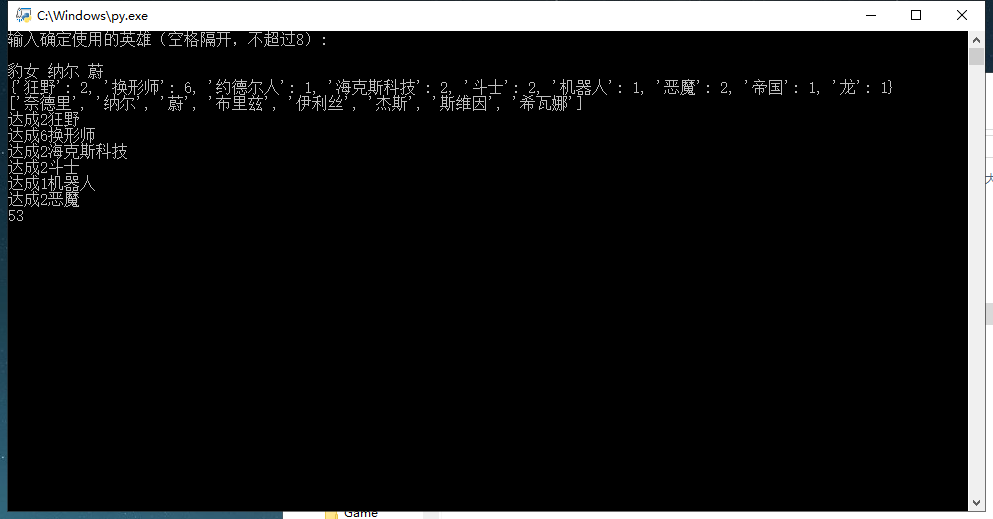
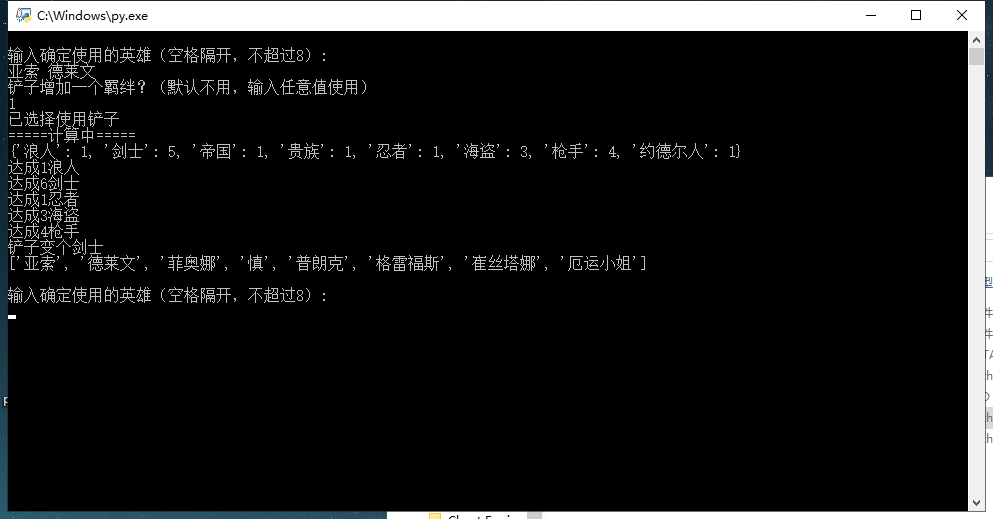
添加铲子功能，适配9.19版本

diff --git a/YD-GA_cmd.py b/YD-GA_cmd.py
@@ -1,4 +1,3 @@
-
 # coding: utf-8
 
 import random
@@ -33,6 +32,9 @@ jiBan = {
          '换形师':[3,6],
          '法师':[3,6]
          }
+
+shovel_add = ['剑士','极地','恶魔','约德尔人','刺客','骑士','法师']
+
 
 def getHeroid(names, heros_info_short):
     '''
@@ -70,34 +72,63 @@ def teamtype(hero_ids, heros_info):
                 team[job] = 1
     return team, gold
 
-def calculateTeamScore(team, show= 0):
+def calc(team, show= 0):
     '''
     计算队伍得分
-    羁绊得分规则：按达成羁绊人数得分，不考虑羁绊效果不平衡（这是运营商的事=-=）
+    羁绊得分规则：按达成羁绊人数得分，不考虑羁绊效果不平衡（这是运营商的事!）
     '''
     score = 0
     for k in team:
-        flag = 0#记录达成几人口羁绊
-        if k != '忍者':
-            pnum = team[k]
-            for n in jiBan[k]:
-                if pnum >= n:
-                    flag = n
-                else:
-                    break
-            #组成人口越多，得分越高
-            score += flag**2
-            if pnum >= jiBan[k][0] and show:
-                print('达成{}{}'.format(flag,k))
-        elif team[k] == 1 or team[k] == 4:
-            score += team[k]
-            if show:
-                print('达成{}{}'.format(team[k],k))
-        else:
-            continue
+            flag = 0#记录达成几人口羁绊
+            if k != '忍者':
+                pnum = team[k]
+                for n in jiBan[k]:
+                    if pnum >= n:
+                        flag = n
+                    else:
+                        break
+                #组成人口越多，得分越高
+                score += flag**2
+                if pnum >= jiBan[k][0] and show:
+                    print('达成{}{}'.format(flag,k))
+            elif team[k] == 1 or team[k] == 4:
+                score += team[k]
+                if show:
+                    print('达成{}{}'.format(team[k],k))
+            else:
+                continue
     return score
 
-def GA(team_pnum, selected_ids, heros_info, heros_info_short,gens = 100, sample = 50, alpha = 0.5):
+def calculateTeamScore(team, show= 0, shovel= False):
+    '''
+    计算队伍得分(铲子)
+    羁绊得分规则：按达成羁绊人数得分，不考虑羁绊效果不平衡（这是运营商的事!）
+    '''
+    max_score = 0
+    if shovel:
+    #计算铲子
+        change = 'null'
+        team_out = {}
+        for j in shovel_add:
+            #如果队伍里没有相关职业,跳过（铲子没有单独羁绊）
+            if j not in team.keys():
+                continue
+            team_copy = copy.deepcopy(team)
+            team_copy[j] +=1
+            
+            score = calc(team= team_copy, show= 0)
+            change = change if score <= max_score else j
+            team_out = team_out if score <= max_score else copy.deepcopy(team_copy)
+            
+            max_score = max_score if score <= max_score else score
+        
+        calc(team= team_out, show= show)
+        return max_score, change
+    else:
+        max_score = calc(team= team, show= show)
+        return max_score, None
+
+def GA(team_pnum, selected_ids, heros_info, heros_info_short,gens = 100, sample = 50, alpha = 0.5, shovel= False):
     '''
     team_pnum:你想组成多少人队伍
     selected_ids:列表,已经选定哪些英雄
@@ -127,7 +158,7 @@ def GA(team_pnum, selected_ids, heros_info, heros_info_short,gens = 100, sample 
         random.shuffle(hero_thisGenCouldChose)
         teamChoesd =  selected_ids + hero_thisGenCouldChose[:n]
         team, gold = teamtype(teamChoesd, hero_info_cp)
-        score = calculateTeamScore(team)
+        score,change = calculateTeamScore(team,shovel= shovel)
 #         print('<================================>')
         score = score * 10 - gold * alpha if score > 0 else 0
         scores['chosed_ids'].append(teamChoesd)
@@ -156,7 +187,7 @@ def GA(team_pnum, selected_ids, heros_info, heros_info_short,gens = 100, sample 
             scores_thisgen['chosed_ids'].append(teamChoesd)
             #计算得分
             team, gold = teamtype(teamChoesd, hero_info_cp)
-            score = calculateTeamScore(team)
+            score,change = calculateTeamScore(team, shovel= shovel)
             score = score * 10 - gold * alpha if score > 0 else 0
             scores['score'][score_min_idx] = score
             scores_thisgen['score'].append(score)
@@ -196,7 +227,7 @@ def GA(team_pnum, selected_ids, heros_info, heros_info_short,gens = 100, sample 
             baby = selected_ids + dadmon[:n]
             #求得分
             team, gold = teamtype(baby, hero_info_cp)
-            score = calculateTeamScore(team)
+            score,change = calculateTeamScore(team, shovel= shovel)
             score = score * 10 - gold * alpha if score > 0 else 0
             scores_thisgen['chosed_ids'].append(baby)
             scores_thisgen['score'].append(score)
@@ -211,8 +242,7 @@ def GA(team_pnum, selected_ids, heros_info, heros_info_short,gens = 100, sample 
     
     return besTeam, maxscores
 
-
-def main(heros_list= [], team_pnum= 8, gens = 100, sample = 50):
+def main(heros_list= [], team_pnum= 8, shovel = False, gens = 100, sample = 50):
     '''
     hero_list: 你确定选的英雄
     team_pnum: 人口数
@@ -235,26 +265,34 @@ def main(heros_list= [], team_pnum= 8, gens = 100, sample = 50):
                             heros_info_short= heros_info_short, 
                             gens = gens, 
                             sample = 50, 
-                            alpha = 0.1)
+                            alpha = 0.1,
+                            shovel = shovel)
 
     team, gold = teamtype(besTeam, heros_info= heros_info)
     print(team)
+    teamScore, change = calculateTeamScore(team= team, show = 1, shovel= shovel)
+#     print(teamScore)
+    print('铲子变个{}'.format(change))
     heros = getHeroFromid(besTeam, heros_info= heros_info)
     print(heros)
-    teamScore = calculateTeamScore(team= team, show = 1)
-    print(teamScore)
     
-    plt.plot(list(range(gens)), maxscores, 'k.')
-    plt.rcParams['font.sans-serif']=['SimHei']
-    plt.rcParams['axes.unicode_minus'] = False
-    plt.xlabel('Gen', fontsize = 15)
-    plt.ylabel('Score', fontsize = 15)
-    plt.title('人工智障助手-云顶之弈', fontsize = 20, pad= 10)
-    plt.show()
-
+#    plt.plot(list(range(gens)), maxscores, 'k.')
+#    plt.rcParams['font.sans-serif']=['SimHei']
+#    plt.rcParams['axes.unicode_minus'] = False
+#    plt.xlabel('Gen', fontsize = 15)
+#    plt.ylabel('Score', fontsize = 15)
+#    plt.title('人工智障助手-云顶之弈', fontsize = 20, pad= 10)
+#    plt.show()
 
 if __name__ == '__main__':
 	while(1):
-		print('输入确定使用的英雄（空格隔开，不超过8）:')
+		print('\n输入确定使用的英雄（空格隔开，不超过8）:')
 		heros_list = input().split(' ')
-		main(heros_list= heros_list, team_pnum= 8, gens = 1000, sample = 100)
+		print('铲子增加一个羁绊？（默认不用，输入任意值使用）')
+		shovel = bool(input())
+		if shovel:
+			print('已选择使用铲子')
+		else:
+			print('选择不使用铲子')
+		print('=====计算中=====')
+		main(heros_list= heros_list, team_pnum= 8, shovel = shovel, gens = 500, sample = 100)

diff --git a/YD-GA_ide.py b/YD-GA_ide.py
@@ -1,4 +1,3 @@
-
 # coding: utf-8
 
 import random
@@ -33,6 +32,9 @@ jiBan = {
          '换形师':[3,6],
          '法师':[3,6]
          }
+
+shovel_add = ['剑士','极地','恶魔','约德尔人','刺客','骑士','法师']
+
 
 def getHeroid(names, heros_info_short):
     '''
@@ -70,34 +72,63 @@ def teamtype(hero_ids, heros_info):
                 team[job] = 1
     return team, gold
 
-def calculateTeamScore(team, show= 0):
+def calc(team, show= 0):
     '''
     计算队伍得分
-    羁绊得分规则：按达成羁绊人数得分，不考虑羁绊效果不平衡（这是运营商的事=-=）
+    羁绊得分规则：按达成羁绊人数得分，不考虑羁绊效果不平衡（这是运营商的事!）
     '''
     score = 0
     for k in team:
-        flag = 0#记录达成几人口羁绊
-        if k != '忍者':
-            pnum = team[k]
-            for n in jiBan[k]:
-                if pnum >= n:
-                    flag = n
-                else:
-                    break
-            #组成人口越多，得分越高
-            score += flag**2
-            if pnum >= jiBan[k][0] and show:
-                print('达成{}{}'.format(flag,k))
-        elif team[k] == 1 or team[k] == 4:
-            score += team[k]
-            if show:
-                print('达成{}{}'.format(team[k],k))
-        else:
-            continue
+            flag = 0#记录达成几人口羁绊
+            if k != '忍者':
+                pnum = team[k]
+                for n in jiBan[k]:
+                    if pnum >= n:
+                        flag = n
+                    else:
+                        break
+                #组成人口越多，得分越高
+                score += flag**2
+                if pnum >= jiBan[k][0] and show:
+                    print('达成{}{}'.format(flag,k))
+            elif team[k] == 1 or team[k] == 4:
+                score += team[k]
+                if show:
+                    print('达成{}{}'.format(team[k],k))
+            else:
+                continue
     return score
 
-def GA(team_pnum, selected_ids, heros_info, heros_info_short,gens = 100, sample = 50, alpha = 0.5):
+def calculateTeamScore(team, show= 0, shovel= False):
+    '''
+    计算队伍得分(铲子)
+    羁绊得分规则：按达成羁绊人数得分，不考虑羁绊效果不平衡（这是运营商的事!）
+    '''
+    max_score = 0
+    if shovel:
+    #计算铲子
+        change = 'null'
+        team_out = {}
+        for j in shovel_add:
+            #如果队伍里没有相关职业,跳过（铲子没有单独羁绊）
+            if j not in team.keys():
+                continue
+            team_copy = copy.deepcopy(team)
+            team_copy[j] +=1
+            
+            score = calc(team= team_copy, show= 0)
+            change = change if score <= max_score else j
+            team_out = team_out if score <= max_score else copy.deepcopy(team_copy)
+            
+            max_score = max_score if score <= max_score else score
+        
+        calc(team= team_out, show= show)
+        return max_score, change
+    else:
+        max_score = calc(team= team, show= show)
+        return max_score, None
+
+def GA(team_pnum, selected_ids, heros_info, heros_info_short,gens = 100, sample = 50, alpha = 0.5, shovel= False):
     '''
     team_pnum:你想组成多少人队伍
     selected_ids:列表,已经选定哪些英雄
@@ -127,7 +158,7 @@ def GA(team_pnum, selected_ids, heros_info, heros_info_short,gens = 100, sample 
         random.shuffle(hero_thisGenCouldChose)
         teamChoesd =  selected_ids + hero_thisGenCouldChose[:n]
         team, gold = teamtype(teamChoesd, hero_info_cp)
-        score = calculateTeamScore(team)
+        score,change = calculateTeamScore(team,shovel= shovel)
 #         print('<================================>')
         score = score * 10 - gold * alpha if score > 0 else 0
         scores['chosed_ids'].append(teamChoesd)
@@ -156,7 +187,7 @@ def GA(team_pnum, selected_ids, heros_info, heros_info_short,gens = 100, sample 
             scores_thisgen['chosed_ids'].append(teamChoesd)
             #计算得分
             team, gold = teamtype(teamChoesd, hero_info_cp)
-            score = calculateTeamScore(team)
+            score,change = calculateTeamScore(team, shovel= shovel)
             score = score * 10 - gold * alpha if score > 0 else 0
             scores['score'][score_min_idx] = score
             scores_thisgen['score'].append(score)
@@ -196,7 +227,7 @@ def GA(team_pnum, selected_ids, heros_info, heros_info_short,gens = 100, sample 
             baby = selected_ids + dadmon[:n]
             #求得分
             team, gold = teamtype(baby, hero_info_cp)
-            score = calculateTeamScore(team)
+            score,change = calculateTeamScore(team, shovel= shovel)
             score = score * 10 - gold * alpha if score > 0 else 0
             scores_thisgen['chosed_ids'].append(baby)
             scores_thisgen['score'].append(score)
@@ -211,8 +242,7 @@ def GA(team_pnum, selected_ids, heros_info, heros_info_short,gens = 100, sample 
     
     return besTeam, maxscores
 
-
-def main(heros_list= [], team_pnum= 8, gens = 100, sample = 50):
+def main(heros_list= [], team_pnum= 8, shovel = False, gens = 100, sample = 50):
     '''
     hero_list: 你确定选的英雄
     team_pnum: 人口数
@@ -235,14 +265,16 @@ def main(heros_list= [], team_pnum= 8, gens = 100, sample = 50):
                             heros_info_short= heros_info_short, 
                             gens = gens, 
                             sample = 50, 
-                            alpha = 0.1)
+                            alpha = 0.1,
+                            shovel = shovel)
 
     team, gold = teamtype(besTeam, heros_info= heros_info)
     print(team)
+    teamScore, change = calculateTeamScore(team= team, show = 1, shovel= shovel)
+#     print(teamScore)
+    print('铲子变个{}'.format(change))
     heros = getHeroFromid(besTeam, heros_info= heros_info)
     print(heros)
-    teamScore = calculateTeamScore(team= team, show = 1)
-    print(teamScore)
     
     plt.plot(list(range(gens)), maxscores, 'k.')
     plt.rcParams['font.sans-serif']=['SimHei']
@@ -252,6 +284,6 @@ def main(heros_list= [], team_pnum= 8, gens = 100, sample = 50):
     plt.title('人工智障助手-云顶之弈', fontsize = 20, pad= 10)
     plt.show()
 
-
 if __name__ == '__main__':
-    main(heros_list= ['纳尔', '艾希', '豹女'], team_pnum= 8, gens = 200, sample = 100)
+    main(heros_list= [ '德莱文', '普朗克', '慎'], team_pnum= 8, shovel = True, gens = 500, sample = 100)
+
